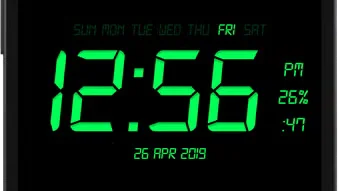
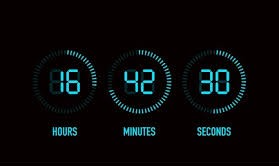
add new project to data.json file

diff --git a/src/layouts/web/Footer/index.jsx b/src/layouts/web/Footer/index.jsx
@@ -7,9 +7,9 @@ const Footer = () => {
     const year = new Date().getFullYear();
 
     const iconsMap = {
-        "CiLinkedin": CiLinkedin,
-        "TbBrandGithubFilled": TbBrandGithubFilled,
-        "FaInstagram": FaInstagram
+        CiLinkedin: CiLinkedin,
+        TbBrandGithubFilled: TbBrandGithubFilled,
+        FaInstagram: FaInstagram
     }
 
     return (

diff --git a/src/view/web/pages/Home/components/Portfolios/components/PortfolioCard/PortfolioCard.jsx b/src/view/web/pages/Home/components/Portfolios/components/PortfolioCard/PortfolioCard.jsx
@@ -12,7 +12,7 @@ const PortfolioCard = ({ data }) => {
                             {shortDescription}
                         </p>
                         <div className="overflow-hidden rounded-lg my-4 w-full h-50 cursor-pointer">
-                            <img src={image} alt={name || "portfolio"} className="rounded-lg size-full object-cover transition-all duration-300 hover:scale-110" />
+                            <img src={image} alt={name || "portfolio"} className="rounded-lg size-full object-fill transition-all duration-300 hover:scale-110" />
                         </div>
                         <div className="w-full flex justify-between items-center mb-4">
                             <a href={link} className="card-btn max-xs:text-sm">